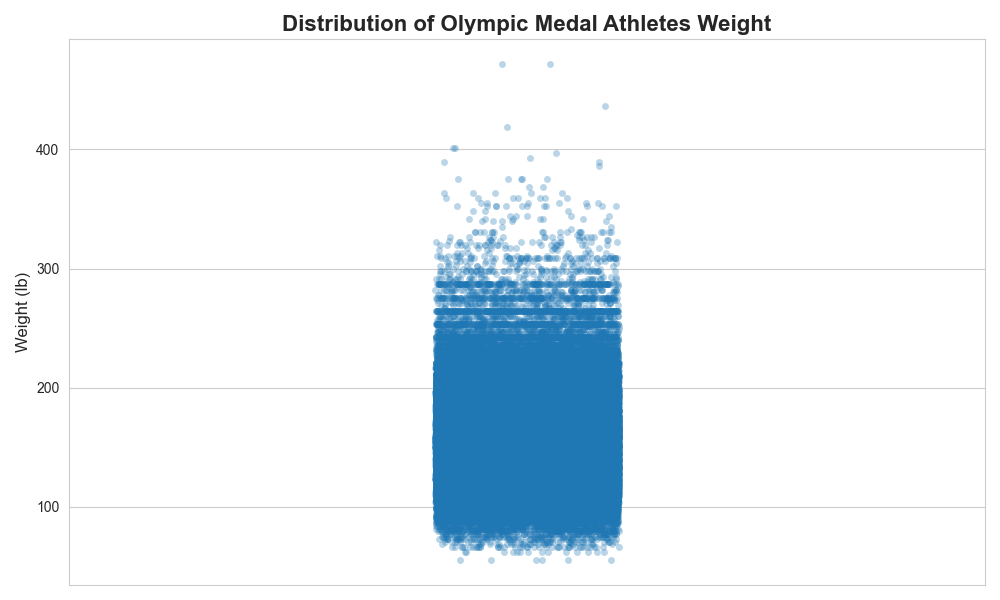
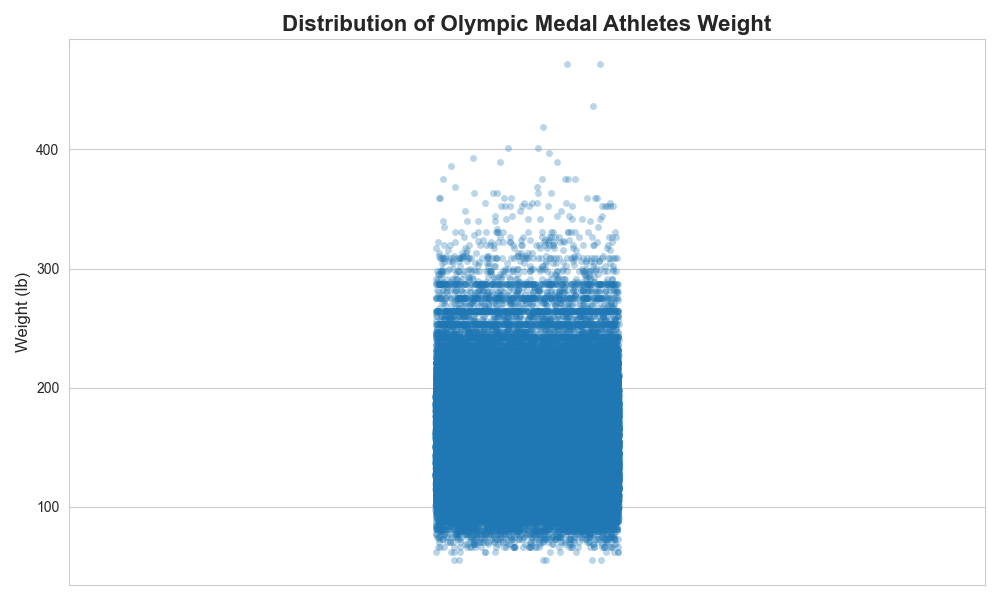
Completed box plot

diff --git a/A4/box-plot-d3.html b/A4/box-plot-d3.html
@@ -7,10 +7,6 @@
         <title>Box Plot</title>
         <script src="https://d3js.org/d3.v6.min.js"></script>
         <style>
-            .dot {
-                fill: #8c636b;
-            }
-
             .axis-x path,
             .axis-y path {
                 fill: none;
@@ -40,12 +36,16 @@
                 font-weight: 700;
                 text-anchor: middle;
             }    
+
+            .dot {
+                fill: #92676f;
+            }
         </style>
     </head>
 
     <body>
         <a class="backbutton" href="..">Back</a>
-        <h1>Olympic Athlete Height vs Weight (with Tooltip) in d3</h1>
+        <h1>Olympic Athlete Age Distribution (with Tooltip) in d3</h1>
 
         <div id="chart-container"></div>
         <div class="tooltip" id="tooltip"></div>
@@ -54,7 +54,7 @@
             // Source: bar-chart-csv.html from prof examples
             // Set up svg size and margins
             const svgWidth = 800;
-            const svgHeight = 500;
+            const svgHeight = 350;
             const margin = { top: 40, right: 40, bottom: 50, left: 80 };
             const width = svgWidth - margin.left - margin.right;
             const height = svgHeight - margin.top - margin.bottom;
@@ -71,17 +71,88 @@
                 data.forEach(d => {
                     d.Age = +d.Age;
                 });
+
+                // Source: https://d3-graph-gallery.com/graph/boxplot_basic.html
+                // Filter out valid ages and sort from smallest to largest
+                const ages = data
+                    .map(d => d.Age)
+                    .sort(d3.ascending);
+                
+                // Calcuate quartiles
+                const q1 = d3.quantile(ages, .25);
+                const median = d3.quantile(ages, .5)
+                const q3 = d3.quantile(ages, .75)
+
+                // Calculate iqr and whisker bounds
+                const iqr = q3 - q1
+                const minBound = q1 - 1.5 * iqr
+                const maxBound = q3 + 1.5 * iqr
+
+                // Get outliers
+                const outliers = data.filter(d => d.Age < minBound || d.Age > maxBound);
                 
                 // Set X scale
                 const x = d3.scaleLinear()
-                    .domain([d3.min(filteredData, d => d.Height) - 5, d3.max(filteredData, d => d.Height) + 5])
+                    .domain([0, d3.max(ages)])
+                    .nice()
                     .range([0, width]);
 
-                // Set Y scale 
-                const y = d3.scaleLinear()
-                    .domain([d3.min(filteredData, d => d.Weight) - 5, d3.max(filteredData, d => d.Weight) + 5])
-                    .nice()
-                    .range([height, 0]);
+                // Box features
+                var center = height / 2; // Vertical center of boxplot
+                var boxHeight = 150; // Height of the box
+
+                // Draw whisker line (min to max bound)
+                svg.append("line")
+                    .attr("y1", center)
+                    .attr("y2", center)
+                    .attr("x1", x(minBound) )
+                    .attr("x2", x(maxBound) )
+                    .attr("stroke", "#5a3e44")
+
+                // Draw the box from Q1 to Q3
+                svg.append("rect")
+                    .attr("x", x(q1))
+                    .attr("y", center - boxHeight / 2)
+                    .attr("height", boxHeight)
+                    .attr("width", (x(q3)-x(q1)))
+                    .attr("stroke", "black")
+                    .style("fill", "#8c636b")
+
+                // Draw median, min, and max lines
+                svg.selectAll("lines")
+                    .data([minBound, median, maxBound])
+                    .enter()
+                    .append("line")
+                    .attr("y1", center - boxHeight / 2)
+                    .attr("y2", center + boxHeight / 2)
+                    .attr("x1", (d) => x(d))
+                    .attr("x2", (d) => x(d)) 
+                    .attr("stroke", "black")
+
+                const tooltip = d3.select("#tooltip");
+
+                // Draw circles for outliers
+                svg.selectAll("outlier")
+                    .data(outliers)
+                    .enter()
+                    .append("circle")
+                    .attr("cx", d => x(d.Age))
+                    .attr("cy", center)
+                    .attr("r", 4)
+                    .attr("class", "dot")
+                    .on("mouseover", (event, d) => {
+                    tooltip
+                        .html(`<strong>Name</strong>: ${d.Name}<br><strong>Age</strong>: ${d.Age}<br><strong>Sport</strong>: ${d.Sport}`)
+                        .style("opacity", 1);
+                    })
+                    .on("mousemove", (event) => {
+                        tooltip
+                            .style("left", (event.pageX + 12) + "px")
+                            .style("top", (event.pageY - 28) + "px");
+                    })
+                    .on("mouseleave", (event) => {
+                        tooltip.style("opacity", 0);    
+                    });
 
                 // Create X-axis
                 svg.append("g")
@@ -89,35 +160,19 @@
                     .attr("transform", `translate(0, ${height})`)
                     .call(d3.axisBottom(x));
 
-                // Create Y-axis
-                svg.append("g")
-                    .attr("class", "axis axis-y")
-                    .call(d3.axisLeft(y).ticks(10));
-
-                const tooltip = d3.select("#tooltip");
-
-               
                 // Add X-axis title
                 svg.append("text")
                     .attr("x", width / 2)
                     .attr("y", height + 45)
                     .attr("class", "axis-title")
-                    .text("Height (ft)");
-                
-                // Add Y-axis title
-                svg.append("text")
-                    .attr("transform", "rotate(-90)")
-                    .attr("x", -height / 2)
-                    .attr("y", -65)
-                    .attr("class", "axis-title")
-                    .text("Weight (lbs)");
+                    .text("Age");
 
                 // Add graph title
                 svg.append("text")
                     .attr("x", width / 2)
                     .attr("y", -20)
                     .attr("class", "graph-title")
-                    .text("Olympic Athlete Height vs Weight");
+                    .text("Olympic Athlete Age Distribution");
             });
         </script>
     </body>

diff --git a/A3/seaborn-plots.py b/A3/seaborn-plots.py
@@ -27,5 +27,3 @@ plt.title('Distribution of Olympic Medal Athletes Weight', fontsize=16, fontweig
 plt.ylabel('Weight (lb)', fontsize=12)
 plt.tight_layout()
 plt.savefig('strip-seaborn.png')
-
-print(olympic_df['Age'].max())
